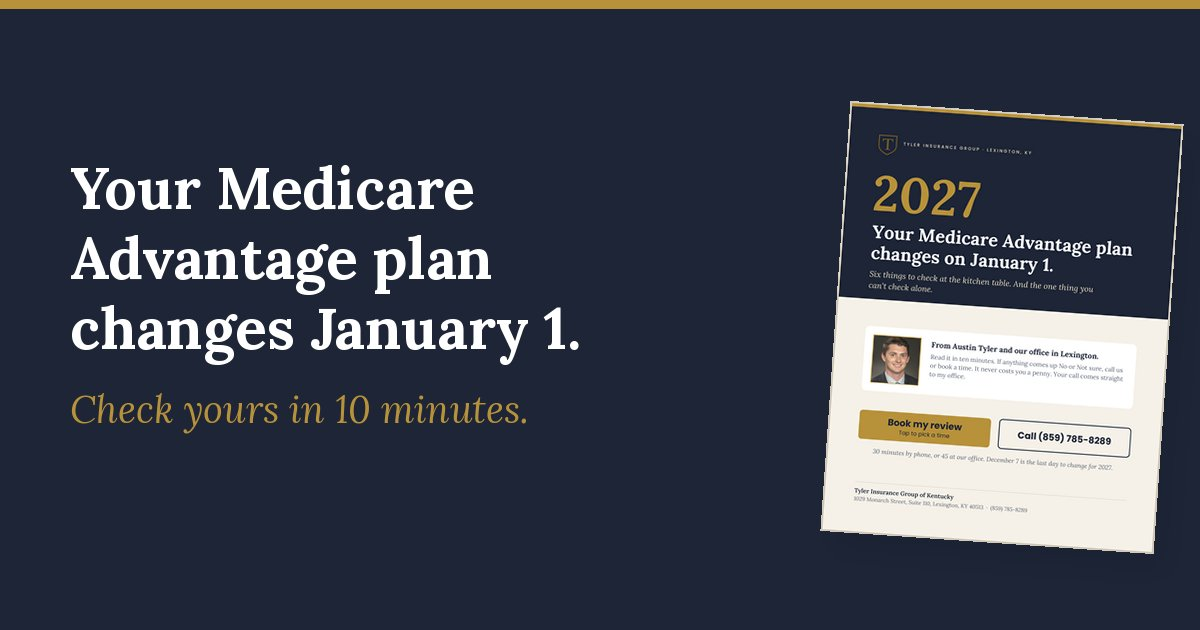
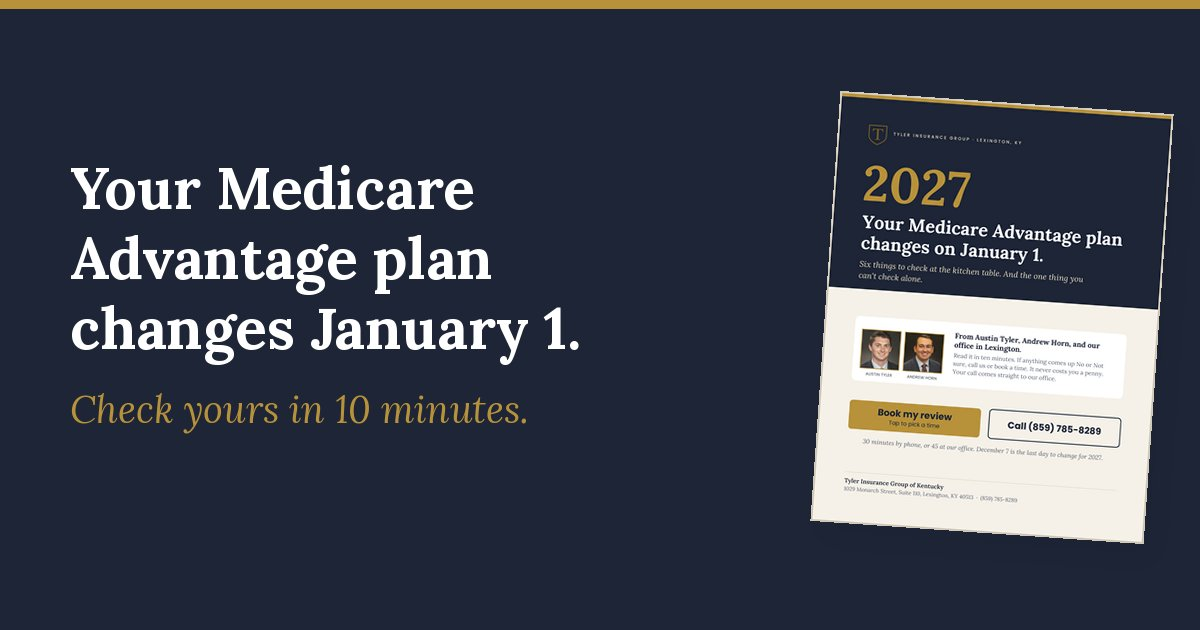
Add Andrew Horn to the /plancheck page
Partner card now shows Austin Tyler and Andrew Horn ("our office"),
guide cover and OG image refreshed from the updated guide.

Claude-Session: https://claude.ai/code/session_01PcAcyYCPQkevzWPGdaFdAA

Changed region(s): [[0.6783, 0.1206, 0.9867, 0.8746]]

diff --git a/plancheck/index.html b/plancheck/index.html
@@ -72,6 +72,9 @@ a{color:var(--coral-d);text-decoration:none;}
 .pclist li:before{content:"";position:absolute;left:4px;top:22px;width:14px;height:14px;border-radius:50%;background:var(--coral);}
 .pcnote{text-align:center;color:var(--mute);font-size:17px;}
 .pccard{display:flex;gap:16px;align-items:center;background:var(--cream2);border:1px solid var(--line);border-radius:16px;padding:18px;margin-top:26px;}
+.pccard{flex-direction:column;text-align:center;}
+.pcpics{display:flex;flex:none;justify-content:center;}
+.pcpics img+img{margin-left:-18px;}
 .pccard img{width:84px;height:84px;border-radius:50%;object-fit:cover;border:3px solid var(--coral);flex:none;}
 .pccard p{color:var(--mute);font-size:17px;line-height:1.45;}
 .pccard b{display:block;color:var(--ink);font-size:19px;}
@@ -157,8 +160,8 @@ a{color:var(--coral-d);text-decoration:none;}
       <a class="pcbtn solid" href="https://link.tylerinsurancegroup.com/widget/group/OuwFMmumrGHln3dKOQ0T" data-track="book">Book my review<small>Tap to pick a time</small></a>
       <p class="pcnote">30 minutes by phone, or 45 at our office on Monarch Street. It never costs you a penny.</p>
       <div class="pccard">
-        <img src="/assets/austin-tyler.jpg" alt="Austin Tyler" width="84" height="84">
-        <p><b>Austin Tyler</b>Tyler Insurance Group, Lexington. Your call comes straight to my office.</p>
+        <div class="pcpics"><img src="/assets/austin-tyler.jpg" alt="Austin Tyler" width="84" height="84"><img src="/plancheck/andrew-horn.jpg" alt="Andrew Horn" width="84" height="84"></div>
+        <p><b>Austin Tyler and Andrew Horn</b>Tyler Insurance Group, Lexington. Your call comes straight to our office.</p>
       </div>
       <div class="pcdead">December 7<b>is the last day to change for 2027.</b></div>
     </div>
